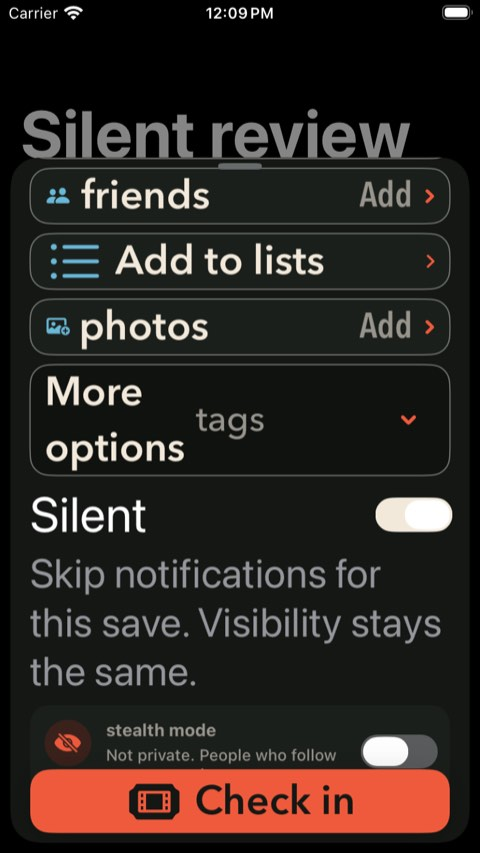
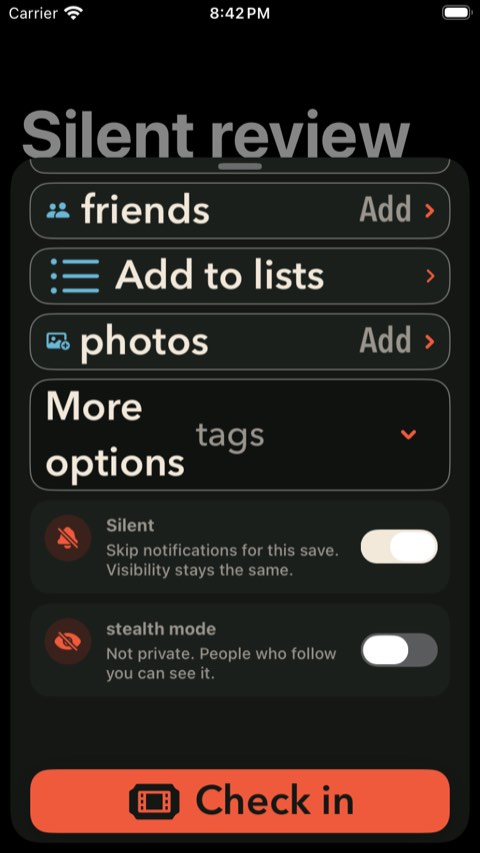
REC-589 match Silent controls to Stealth styling

diff --git a/Wander/DesignSystem/SilentSaveToggle.swift b/Wander/DesignSystem/SilentSaveToggle.swift
@@ -5,19 +5,38 @@ struct SilentSaveToggle: View {
     var hasInvitations = false
 
     var body: some View {
-        VStack(alignment: .leading, spacing: WanderTheme.spacing1) {
-            Toggle("Silent", isOn: $isSilent)
-                .toggleStyle(.switch)
-                .tint(WanderTheme.textInk.color)
-                .frame(minHeight: WanderTheme.tapMinimum)
-                .accessibilityIdentifier("save.silent")
-            Text(hasInvitations
-                 ? "Skip notifications for this save. Visibility stays the same. People you invite will still receive invitations."
-                 : "Skip notifications for this save. Visibility stays the same.")
-                .font(.footnote)
-                .foregroundStyle(.secondary)
-                .fixedSize(horizontal: false, vertical: true)
-                .accessibilityIdentifier("save.silentHelp")
+        Toggle(isOn: $isSilent) {
+            HStack(alignment: .top, spacing: WanderTheme.spacing3) {
+                ZStack {
+                    Circle()
+                        .fill(WanderTheme.terracottaTint.color)
+                    Image(systemName: "bell.slash.fill")
+                        .font(.system(size: 16, weight: .black))
+                        .foregroundStyle(WanderTheme.terracotta.color)
+                }
+                .frame(width: 38, height: 38)
+                .accessibilityHidden(true)
+
+                VStack(alignment: .leading, spacing: WanderTheme.spacing1) {
+                    Text("Silent")
+                        .font(.system(size: 14, weight: .bold))
+                        .foregroundStyle(WanderTheme.textMuted.color)
+                    Text(hasInvitations
+                         ? "Skip notifications for this save. Visibility stays the same. People you invite will still receive invitations."
+                         : "Skip notifications for this save. Visibility stays the same.")
+                        .font(.system(size: 13, weight: .medium))
+                        .foregroundStyle(WanderTheme.textMuted.color)
+                        .fixedSize(horizontal: false, vertical: true)
+                        .accessibilityIdentifier("save.silentHelp")
+                }
+            }
         }
+        .toggleStyle(.switch)
+        .tint(WanderTheme.textInk.color)
+        .frame(minHeight: WanderTheme.tapMinimum)
+        .accessibilityIdentifier("save.silent")
+        .padding(WanderTheme.spacing3)
+        .background(WanderTheme.surfaceBone.color)
+        .clipShape(RoundedRectangle(cornerRadius: WanderTheme.radiusLarge))
     }
 }

diff --git a/docs/reviews/2026-09-23-rec589-engineering-review.md b/docs/reviews/2026-09-23-rec589-engineering-review.md
@@ -395,3 +395,43 @@ worktree. Live authentication and Feed loading succeeded; no account switch or
 manual save was performed. The testing guide includes simulator-sender and
 physical-phone-recipient steps. No broader full UI-suite or real-device push
 pass is claimed. This follow-up is ready for manual acceptance testing.
+
+
+## October 13 Silent styling and landing validation
+
+Inline Silent controls now match Stealth mode's separate rounded colored section,
+icon circle, title/helper fonts, padding, and switch tint, with `bell.slash.fill`.
+The save-policy binding, defaults, invitation helper, and accessibility identifiers
+are preserved. Native import and quick-save confirmations retain their interaction.
+The normal forms and list-picker footer use this single component.
+
+Main is integrated through `bc2fa4d58` (build 181). The three new main commits
+change build metadata, notification brand copy, and a picker UI test; they do not
+replace the sender controls or personalized-delivery functions. XcodeGen adds no
+project churn. No new migration or analytics change is needed. Ryan confirmed
+manual tests passed before this visual follow-up. Historical receipt retention
+is explicitly deferred and is not a blocker for the agreed sender scope.
+
+Native validation on the unchanged final app:
+
+- Full sweep: 2,692/2,694 pass (2,679/2,680 unit tests and 13/14 sender UI tests).
+- The staged-list UI runner was killed during the full sweep. Its isolated rerun
+  passes; all 14 distinct sender UI tests therefore pass across these runs.
+- All six affected compact-phone cases pass, including dark appearance,
+  accessibility text, invitation helper copy, staged lists, and standalone lists.
+- The replay-image SDK test fails because it produces no image, both in the
+  full sweep and isolated rerun. The same failure exists in the October 8 CI run
+  at `db3f9398`, before this styling change. This gap is not reported as a pass.
+- Reviewed native captures on iPhone 16 Plus and iPhone SE (3rd generation),
+  iOS 26.5; refreshed the gallery with final captures. The longer helper wraps,
+  both section styles match, and the fixed save/list buttons remain reachable.
+
+Result bundles in the shared REC-589 evidence directory:
+`SilentStyle-Large-Oct13.xcresult`, `SilentStyle-Compact-Oct13.xcresult`, and
+`SilentStyle-Isolated-Oct13.xcresult`. Original failures are retained.
+Prior hosted smoke and worker verification remain applicable: sender/backend
+implementation is unchanged by this styling follow-up. No broad UI-suite or
+fresh single-run all-green unit result is claimed.
+
+Pre-landing review: no new source-code findings. The remaining replay-image
+validation failure must be resolved or explicitly accepted before landing.

diff --git a/docs/plans/rec589-sender-notifications.md b/docs/plans/rec589-sender-notifications.md
@@ -31,7 +31,9 @@ action below.
 The control belongs to a draft/action, not an account-wide setting. A later
 unrelated save starts from its appropriate default. Inline import detail forms
 inherit the outer import choice. The helper explains that visibility stays the
-same and explicitly selected invitees still receive invitations.
+same and explicitly selected invitees still receive invitations. Inline switches
+match Stealth mode's rounded colored section, fonts, spacing, and switch tint,
+with a crossed-out notification bell (`bell.slash.fill`).
 
 Silent off permits existing eligible announcements. It does not override the
 standalone follower producer's existing date rule: visits before the current
@@ -203,14 +205,17 @@ actual validation evidence and any unavailable OS/device coverage.
 | Independent adversarial | Engineering review | Ledger and notification failure modes | 1 | Complete | No additional verified blocker |
 | Native visual | Sender-control placement review | Real production SwiftUI scenarios | 1 | Complete | 28 states on each of two phone sizes; 14 distinct native cases pass on both |
 
-The final integration passes 2,576 unit tests and the hosted sender regression.
-Both sender migrations are deployed. The broader UI suite is not fully green:
-live-authentication launch and custom-question editing still fail in focused
-reruns. Actual APNs delivery needs the signed-device acceptance checklist.
+The October 8 integration passed 2,680 native unit tests, all 14 sender UI
+cases, 12 notification worker tests, and 15 rollback-only hosted smoke
+transactions. All three REC-589 migrations are deployed. Manual acceptance
+was confirmed before the final Silent styling change. The historical-receipt
+retention follow-up is explicitly deferred and is not part of this rollout.
+The broader native UI suite is not claimed as fully validated.
 See the [engineering review](../reviews/2026-09-23-rec589-engineering-review.md)
 for exact evidence and limits, and the [native gallery](../designs/rec589-sender-controls/index.html)
-for the 56 simulator captures.
+for the 56 simulator captures. The PR records the final styling validation.
 
-VERDICT: Engineering review complete; ready for branch review with the recorded validation limits.
+VERDICT: Engineering review complete; manual acceptance confirmed, with final
+styling and landing checks recorded in the PR.
 
 NO UNRESOLVED DECISIONS

diff --git a/docs/designs/rec589-sender-controls/README.md b/docs/designs/rec589-sender-controls/README.md
@@ -14,6 +14,11 @@ For a single route, use launch arguments `-WanderSenderReview <route>`.
 
 ## Placement decisions
 
+Every inline Silent switch uses its own rounded colored section, matching Stealth
+mode's background, padding, title/helper fonts, icon circle, and switch tint.
+The icon is `bell.slash.fill`; Stealth keeps `eye.slash.fill`. Native quick-save
+and import confirmations retain their existing interaction.
+
 | Scenario / route | Actual placement and interaction |
 | --- | --- |
 | First / repeat check-in (`checkIn`, `repeatCheckIn`) | Silent switch in the final form, outside More, below optional details and above audience. Initially off. Scroll to reach it on shorter screens. Save remains in the fixed footer. |
@@ -56,3 +61,10 @@ distinct native sender tests pass on both devices across the complete and
 focused runs on iOS 26.5. Screenshots document layout; they do not prove APNs delivery.
 See the [manual device tests](../../plans/rec589-sender-notification-testing.md)
 and [engineering review](../../reviews/2026-09-23-rec589-engineering-review.md).
+
+
+October 13 refresh: inline Silent captures use the matching Stealth card styling.
+All 14 sender scenarios pass on the larger phone across the full and isolated
+runs; all six affected compact-phone cases pass. The engineering review records
+one recovered UI-runner interruption and the remaining unrelated replay-image
+unit-test failure. Unchanged compact native-confirmation captures are retained.
